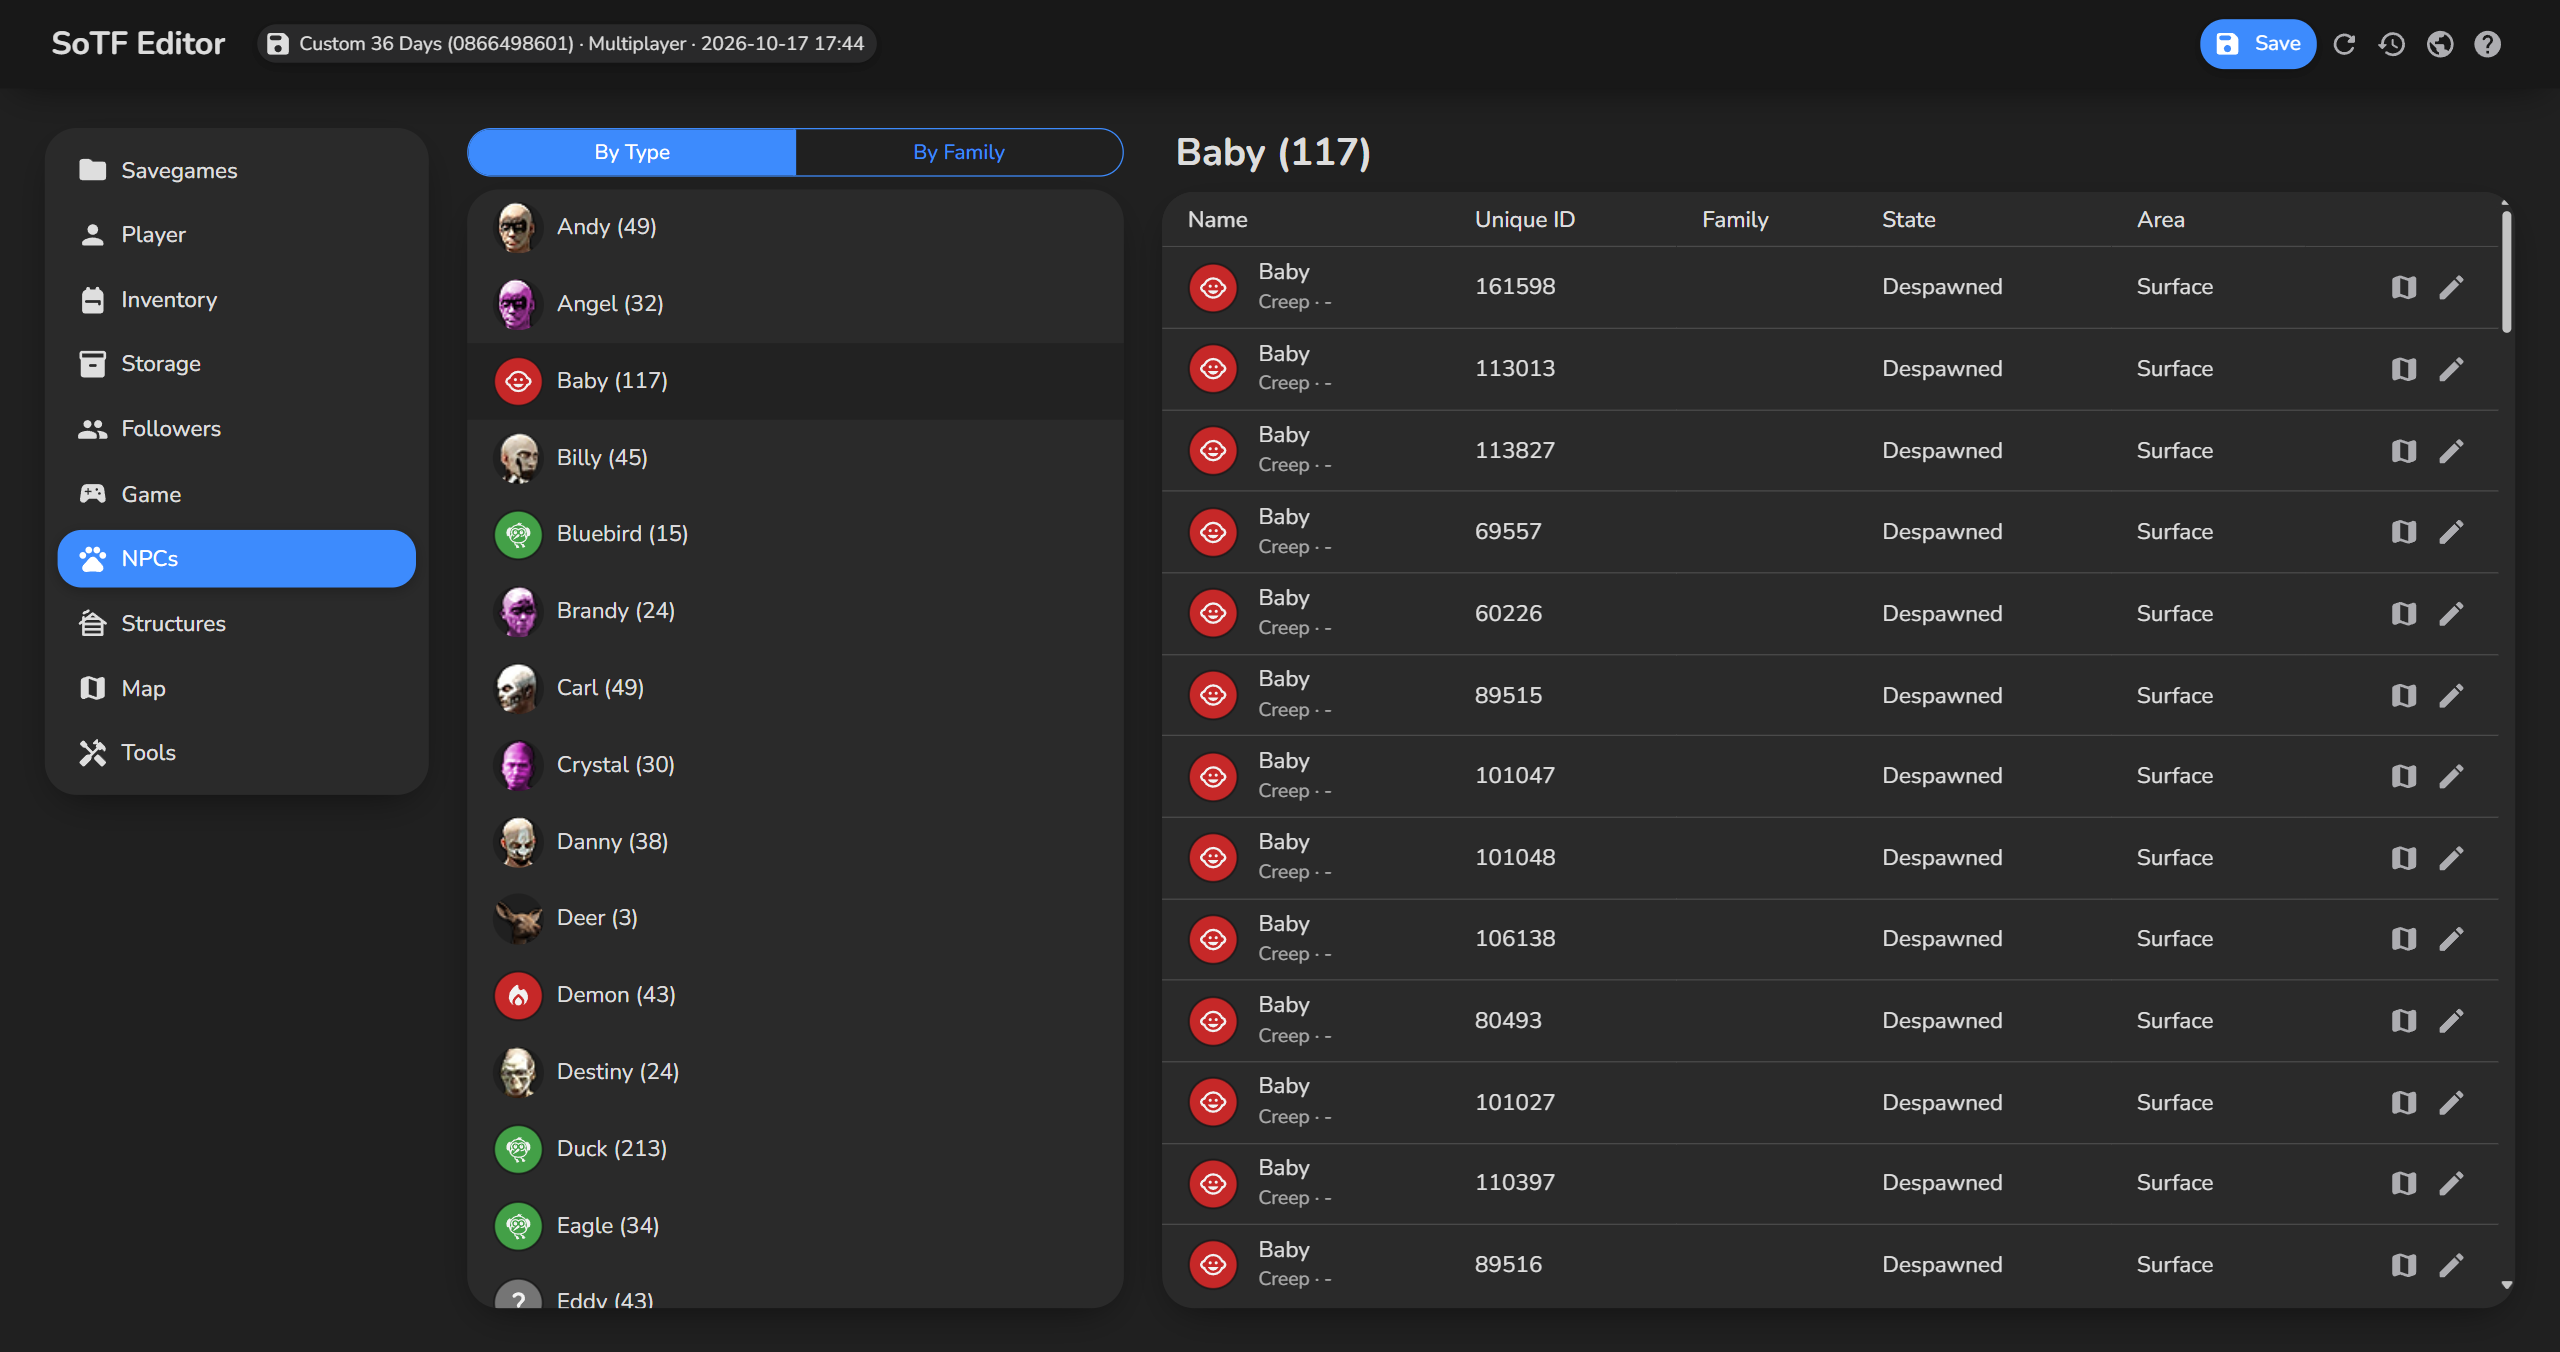
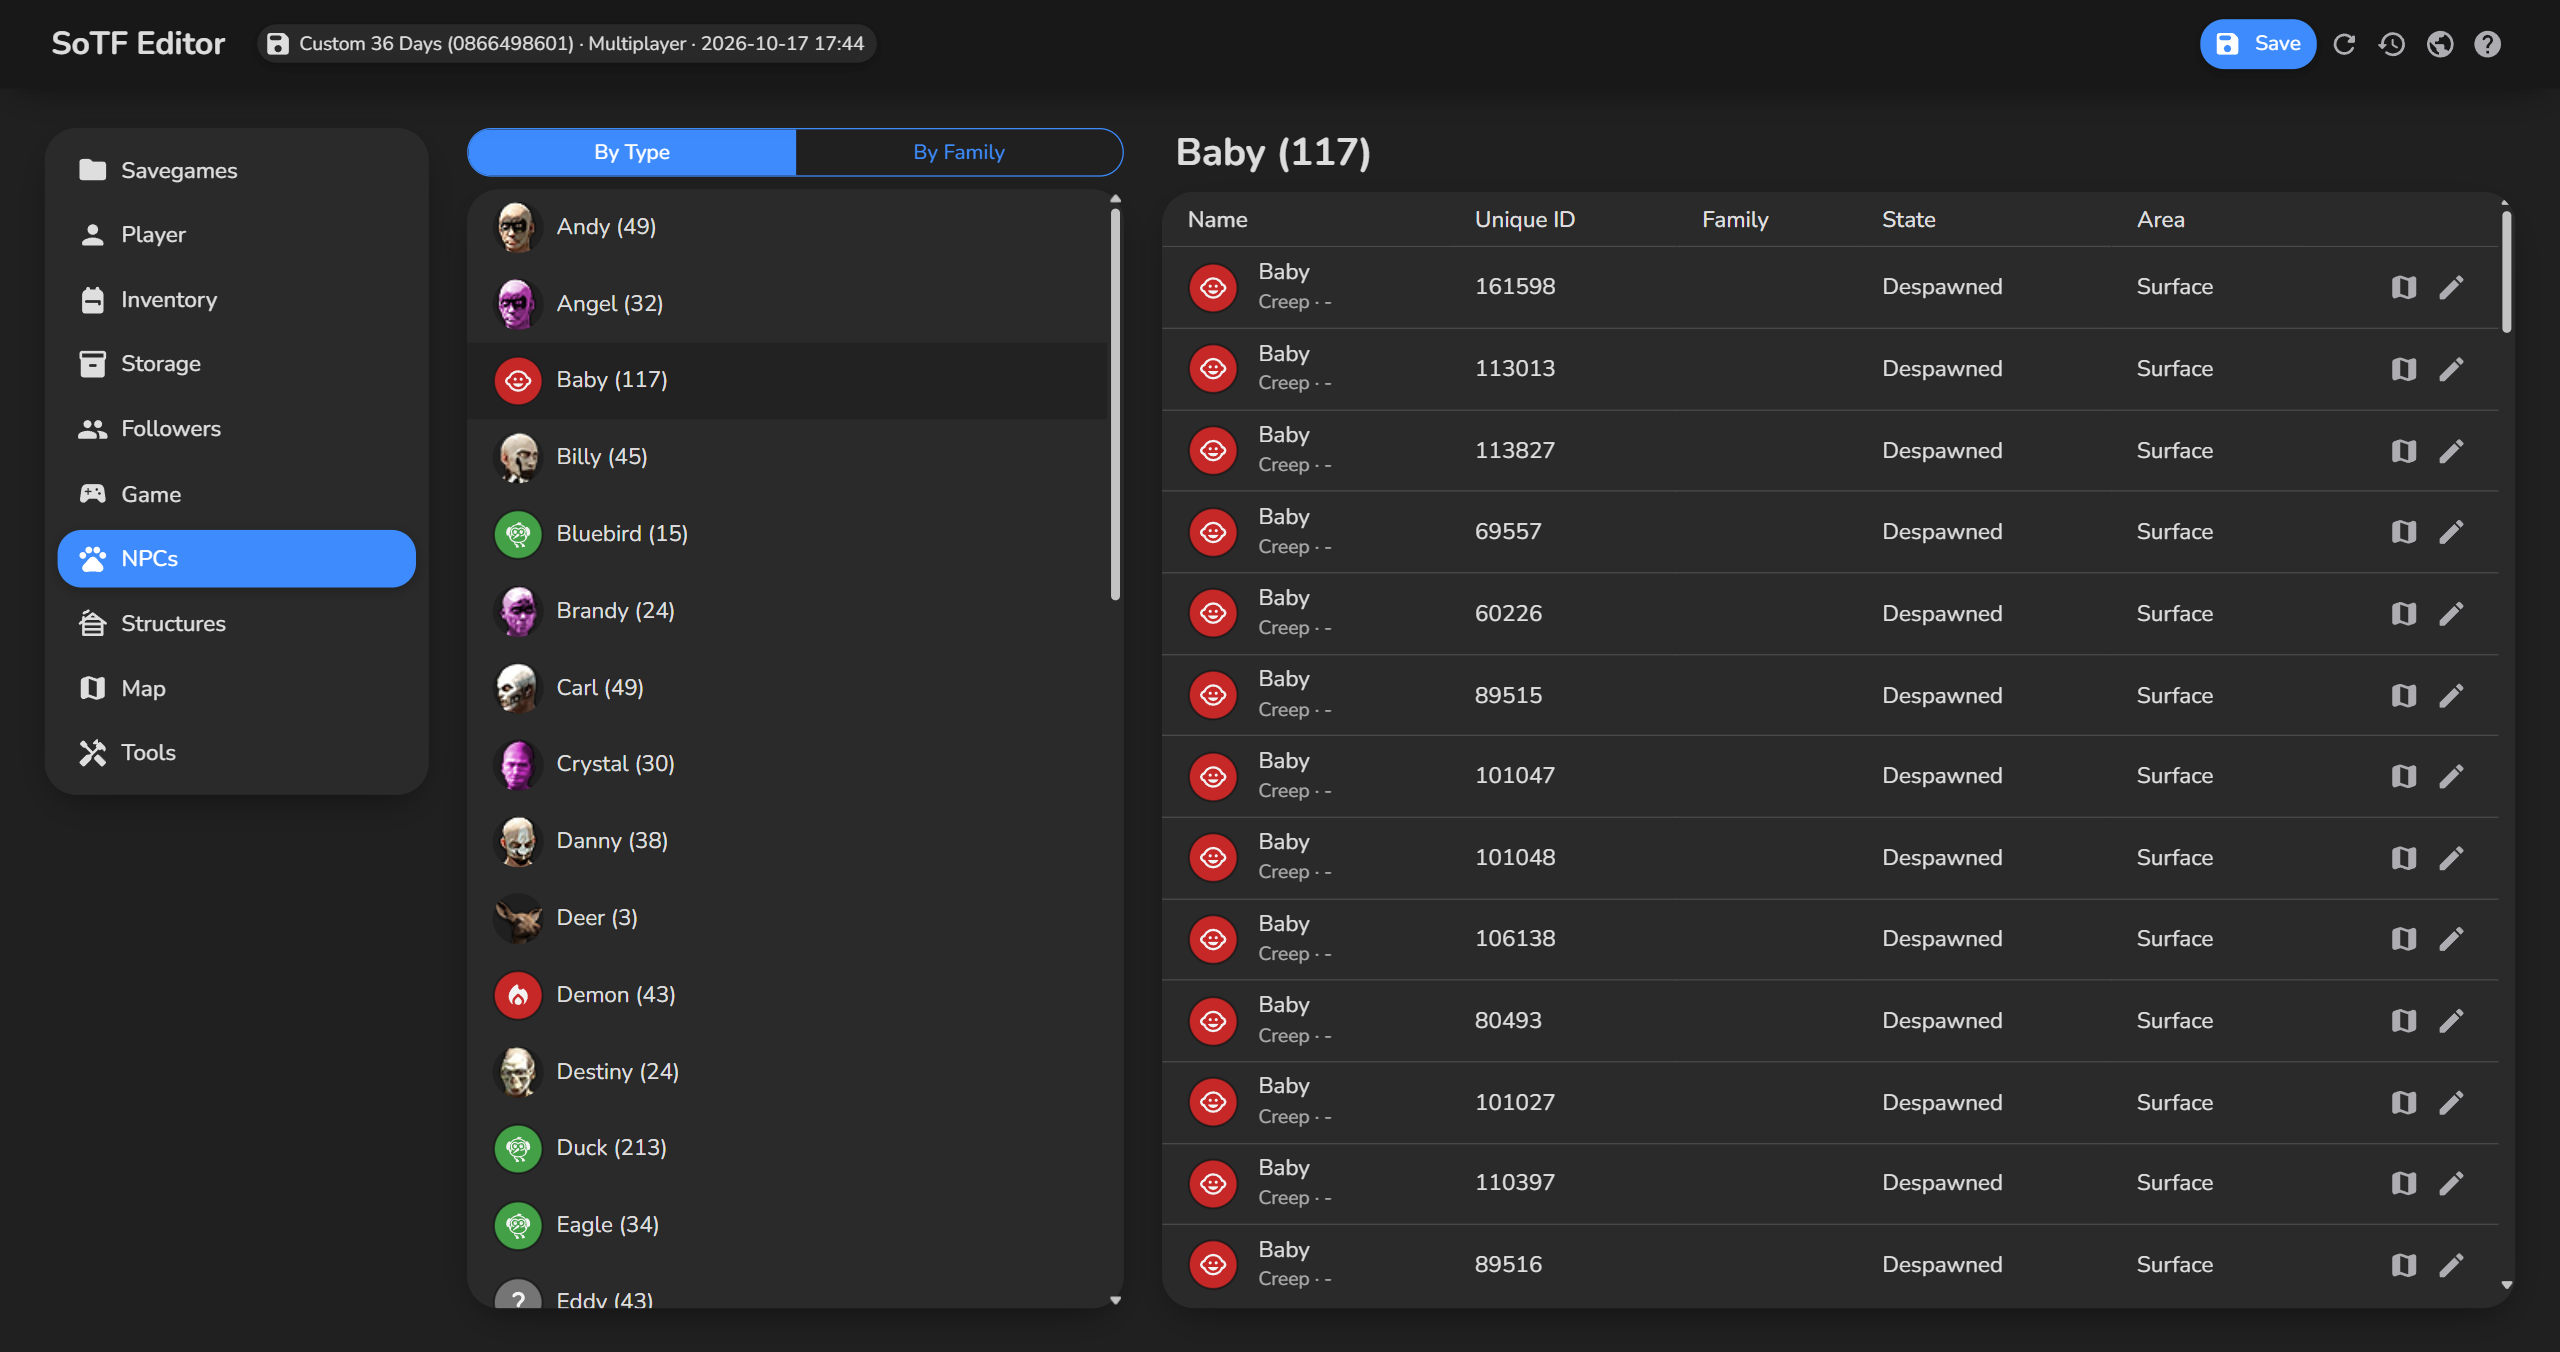
Fix List Scrolling And Missing Actor Images, Release 1.7

diff --git a/SoTF.Editor.Desktop/wwwroot/CSS/SoTF.Editor.css b/SoTF.Editor.Desktop/wwwroot/CSS/SoTF.Editor.css
@@ -158,6 +158,11 @@
     overflow: hidden;
 }
 
+/* A Scrolling List Keeps Scrolling, Auto Clips The Corners Too */
+.panel-flush.overflow-y-auto {
+    overflow-y: auto;
+}
+
 /* Items Not In The Backpack Stay Grey Until Added */
 .not-held > * {
     opacity: 0.5;

diff --git a/SoTF.Editor.Data/Models/Actors/Actor.cs b/SoTF.Editor.Data/Models/Actors/Actor.cs
@@ -26,7 +26,10 @@ public class Actor
     public int? GraphMask { get; set; }
 
     [JsonIgnore]
-    public string ImageUrl => $"images/actors/{ActorType?.Image}";
+    public string ImageUrl =>
+        ActorType?.Image is { } image
+            ? $"images/actors/{image}"
+            : ActorType?.IconPath ?? "images/icons/question-mark.svg";
 
     public string PrintableTitle =>
         $"{ActorType?.Name ?? "???"} - UniqueId {UniqueId} - TypeId {TypeId} - FamilyId {FamilyId}";
